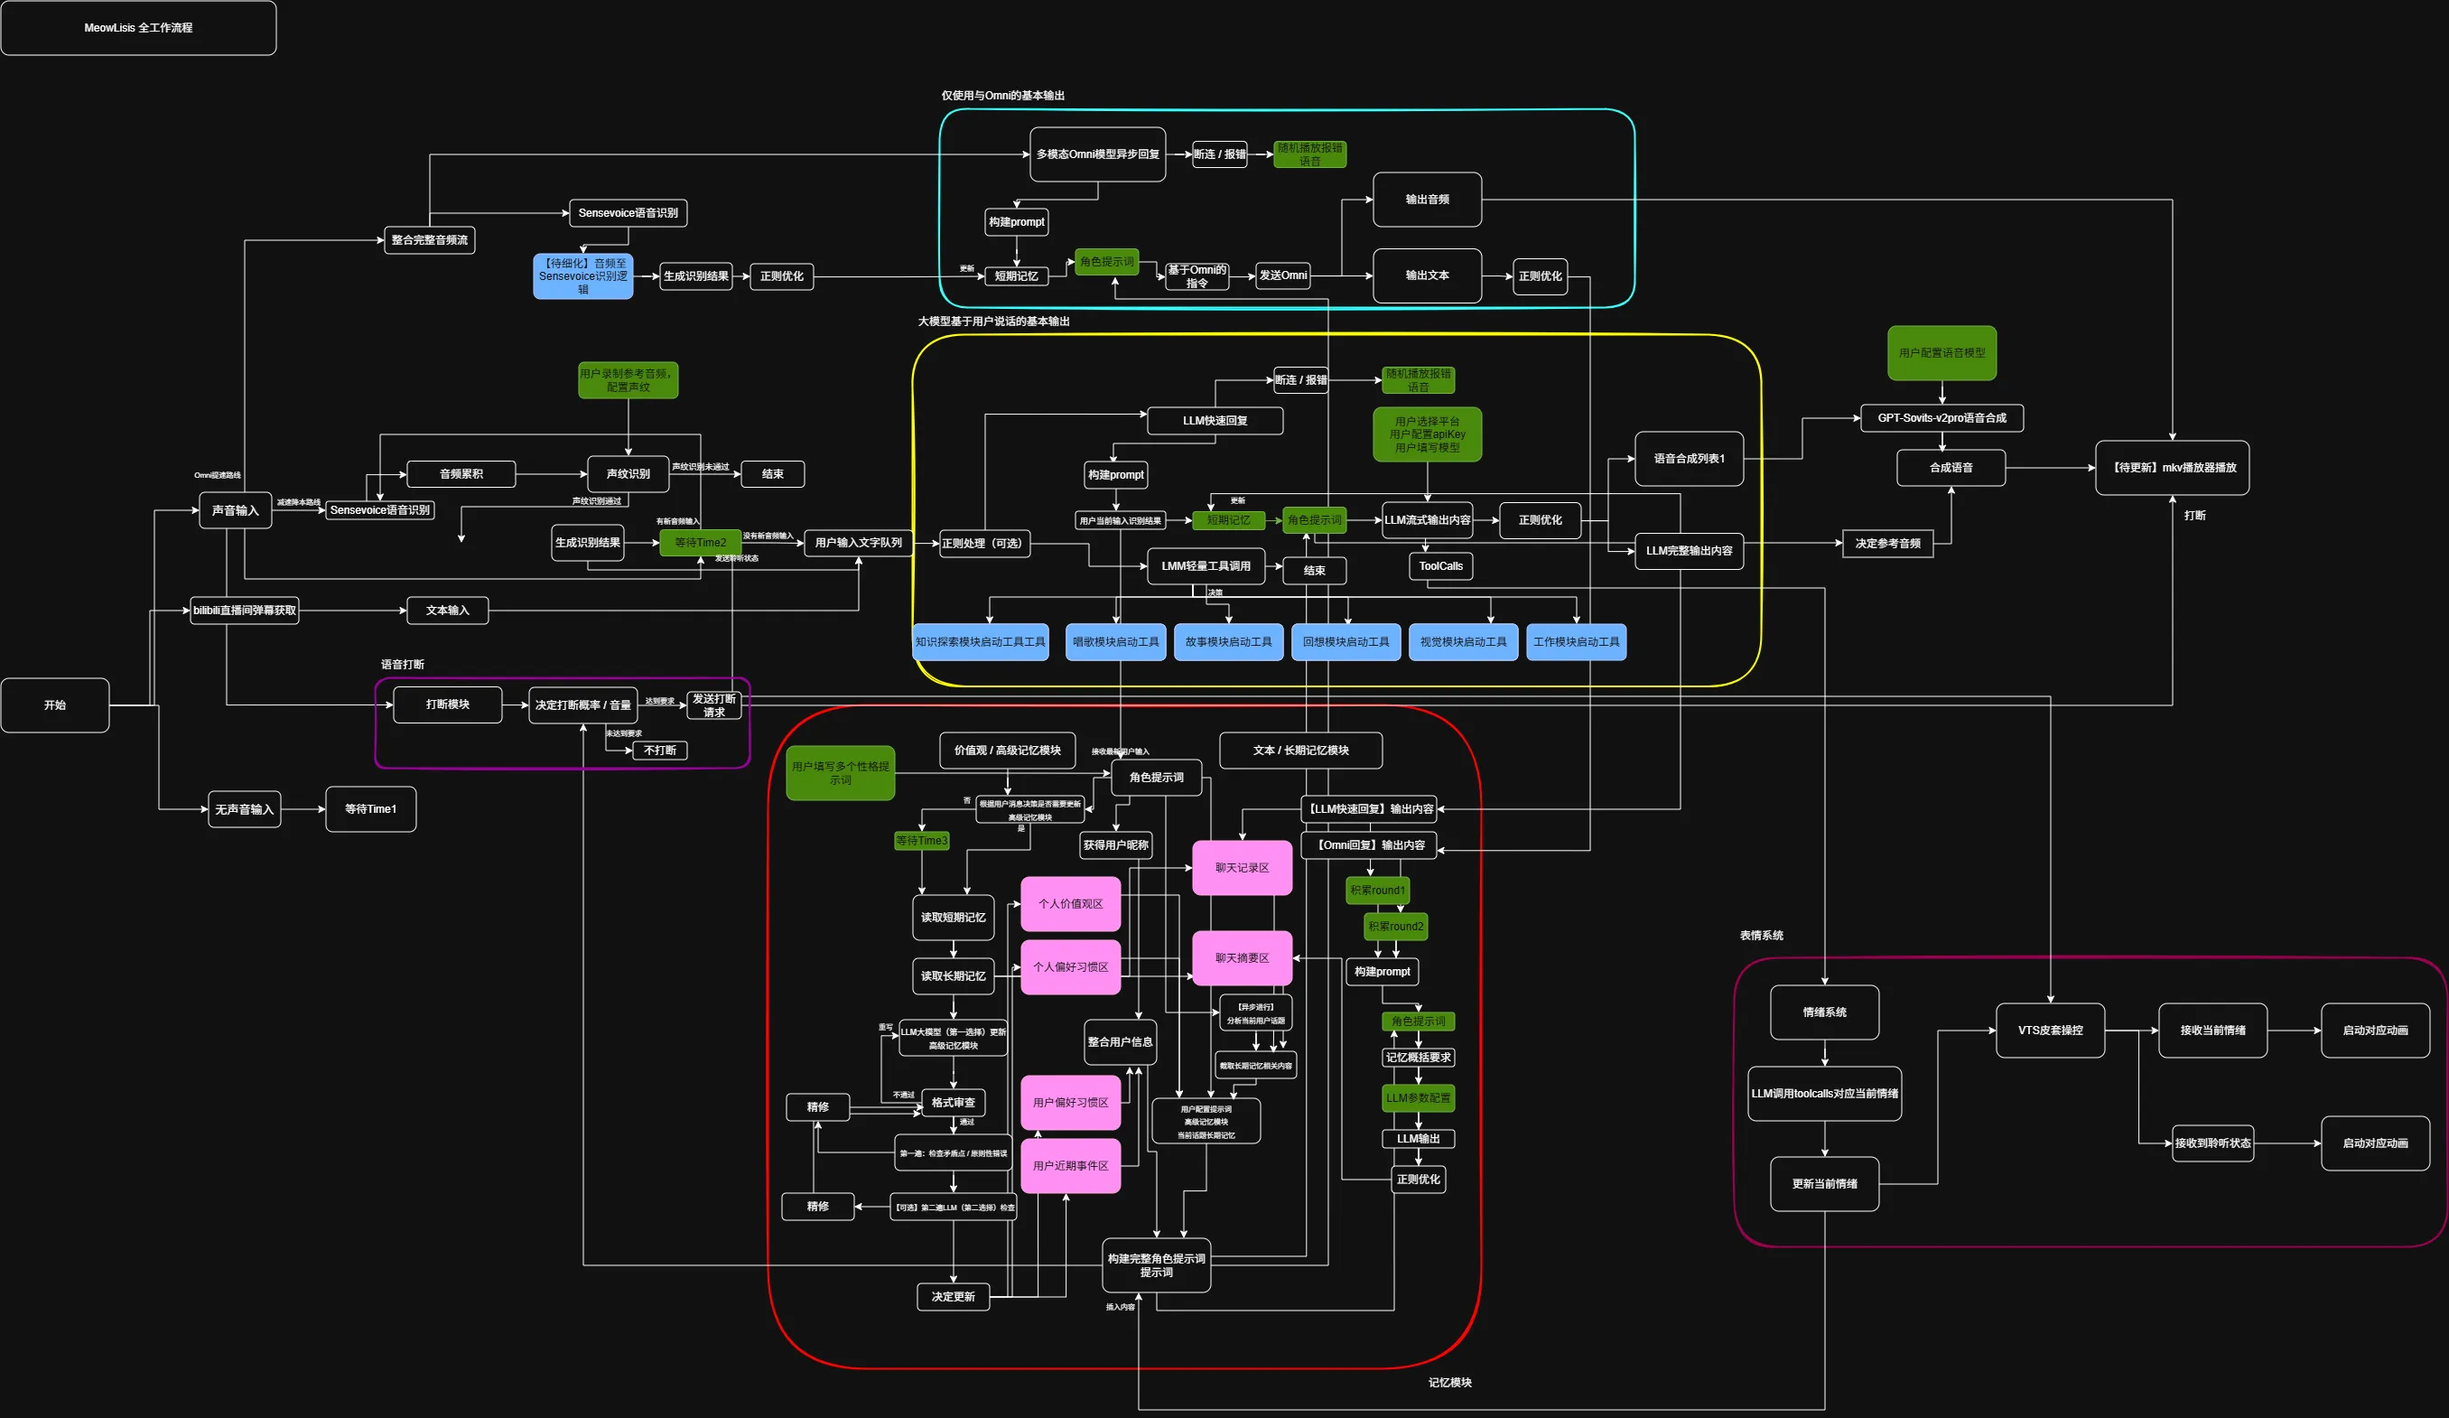
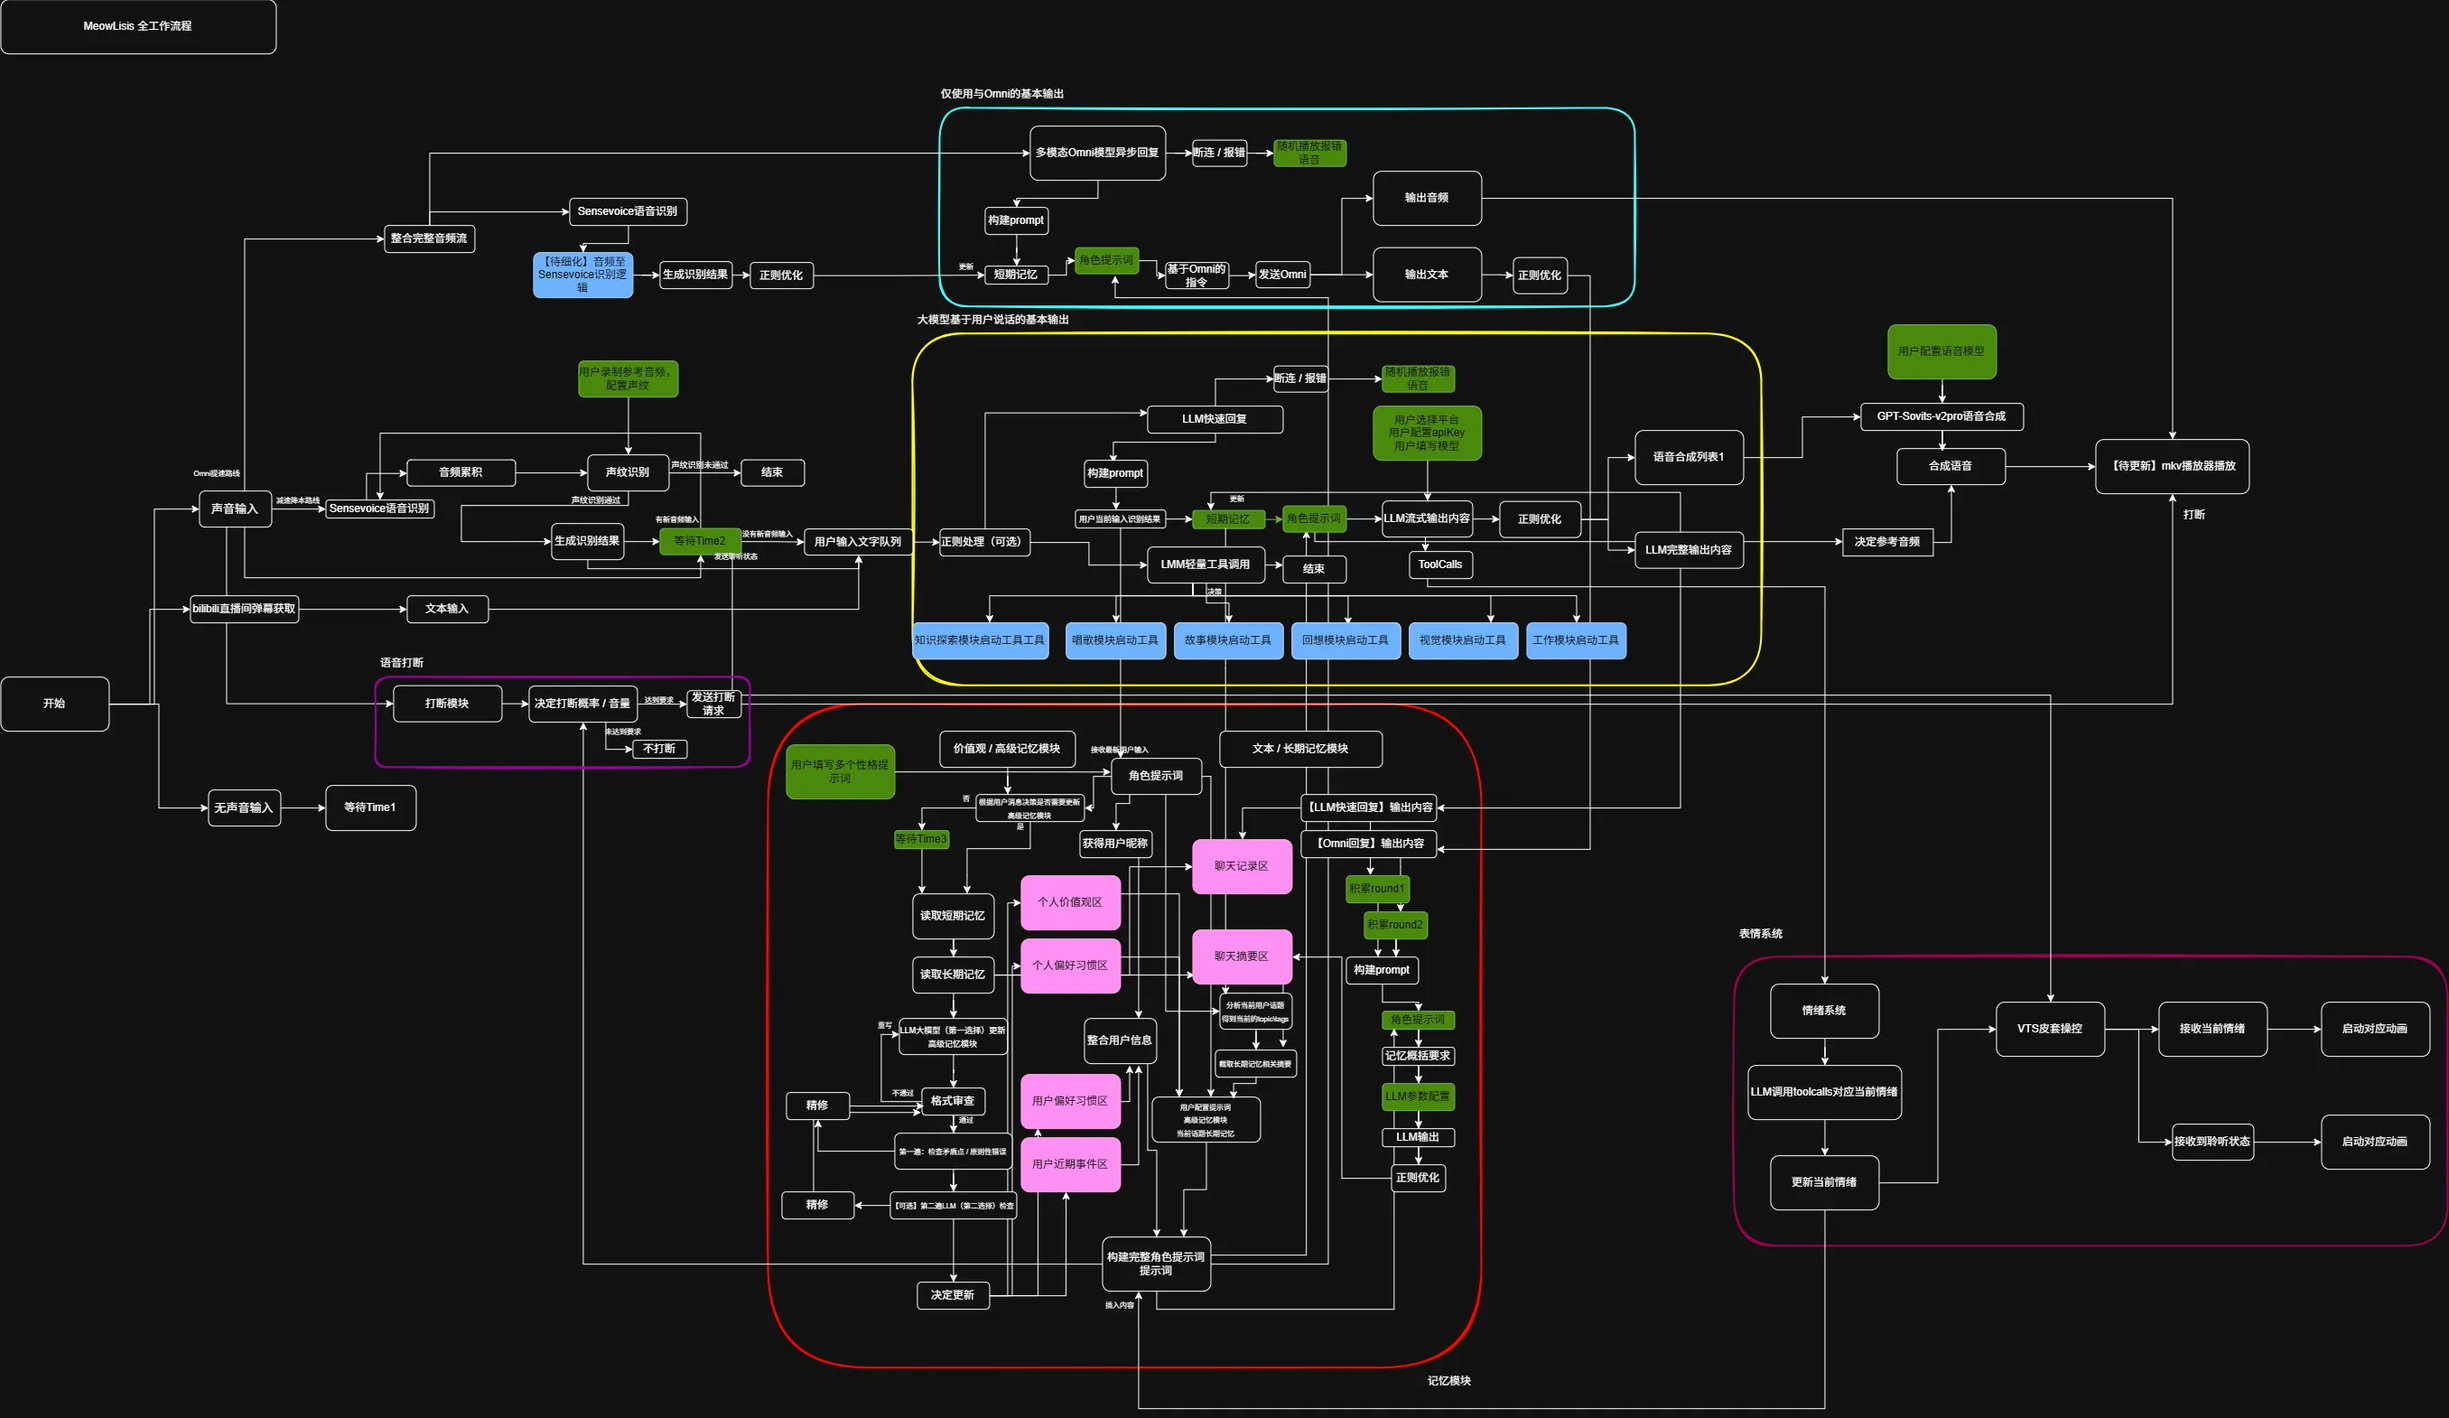
update-260819

diff --git a/gui/js/config.js b/gui/js/config.js
@@ -202,7 +202,8 @@ const Config = {
         let h = this._section('记忆摘要 (abstract_mem)');
         h += this._num('摘要触发条数', 'catbrain.abstract_mem.summary_rounds', 30, 1, 500, 1,
             '这里指单条消息数（user/assistant 各算一条），与短期记忆的"轮数"不同：短期记忆一轮 = 用户 + AI 两条') +
-            this._num('摘要检索条数上限', 'catbrain.abstract_mem.summary_top_limit', 20, 1, 200, 1);
+            this._num('摘要检索条数上限', 'catbrain.abstract_mem.summary_top_limit', 20, 1, 200, 1) +
+            this._num('话题更新间隔(秒)', 'catbrain.abstract_mem.topic_update_interval', 60, 1, 3600, 1);
         h += this._llmTypeSelect('摘要 LLM 类型', 'catbrain.abstract_mem.llm_type', ab);
         h += `<div class="modal-tabs">
             <button class="modal-tab active" data-tab="abstract_ds">DeepSeek</button>

diff --git a/func/catbrain/CatValues/update_values.py b/func/catbrain/CatValues/update_values.py
@@ -32,6 +32,8 @@ class MeowUpdateValues:
         self.values_dir = os.path.join("character", "info", "values")
         self.latest_path = os.path.join(self.values_dir, "latest.json")
         self.unchecked_path = os.path.join(self.values_dir, "unchecked.json")
+        # 审查是否因未调用工具而需直接中止
+        self._review_abort = False
 
     def _ensure_llm(self):
         """懒加载价值观独立 LLM 客户端"""
@@ -43,10 +45,10 @@ class MeowUpdateValues:
         return self.llm
 
     def _get_persona_prompt(self) -> str:
-        """延迟获取完整角色身份提示词（角色卡+价值观，方法内导入避免循环依赖）"""
+        """延迟获取角色卡提示词（方法名沿用 persona，实际仅取角色卡，不含价值观）"""
         try:
             from func.pipeline.system_prompt import SystemPromptBridge
-            return SystemPromptBridge().get_persona_prompt() or ""
+            return SystemPromptBridge().get_character_prompt() or ""
         except Exception:
             return ""
 
@@ -134,7 +136,7 @@ class MeowUpdateValues:
         result[self.update_tool.LOCK_FIELD] = lock_value
 
     def _review(self, result: Dict, llm, current: Dict) -> Tuple[bool, str]:
-        """审查环节：调用审查 LLM 判断新价值观是否合理，返回(是否通过, 意见)"""
+        """审查环节：自由工具调用判断新价值观是否合理，返回(是否通过, 意见)"""
         instruction = self._load_prompt(
             "review_prompt.txt",
             "你是审查员，请审查价值观更新结果，调用 review_values 工具输出结论。")
@@ -148,8 +150,7 @@ class MeowUpdateValues:
             {"role": "user", "content": f"角色当前价值观：\n{json.dumps(current, ensure_ascii=False, indent=2)}"},
             {"role": "user", "content": f"待审查的新价值观：\n{json.dumps(result, ensure_ascii=False, indent=2)}"}
         ]
-        resp = llm.chat(messages, tools=self.review_tool.build_tools(),
-                        tool_choice=self.review_tool.force_tool_choice())
+        resp = llm.chat(messages, tools=self.review_tool.build_tools())
         if not resp or not resp.choices:
             self.log.error("审查 LLM 无响应，默认不通过")
             return False, "审查 LLM 无响应"
@@ -161,7 +162,10 @@ class MeowUpdateValues:
                     return bool(args.get("pass")), str(args.get("feedback", ""))
         except Exception:
             self.log.exception("解析审查工具调用失败")
-        return False, "审查结果解析失败"
+            return False, "审查结果解析失败"
+        # 未调用审查工具：算不通过且直接中止
+        self._review_abort = True
+        return False, ""
 
     def _revise(self, messages: List[Dict], feedback: str) -> Optional[Dict]:
         """将审查意见反馈给分析 LLM 进行修改并重新输出"""
@@ -202,7 +206,11 @@ class MeowUpdateValues:
         # ===== 一次审查（最多3次） =====
         review_messages = list(messages)
         for attempt in range(3):
+            self._review_abort = False
             passed, feedback = self._review(result, self._ensure_llm(), current)
+            if self._review_abort:
+                self.log.error("审查未调用工具，直接结束")
+                return False
             if passed:
                 break
             self.log.warning(f"一次审查不通过(第{attempt + 1}次): {feedback}")
@@ -225,7 +233,11 @@ class MeowUpdateValues:
             review_llm = MeowValuesReviewLLM()
             if review_llm.client:
                 for attempt in range(3):
+                    self._review_abort = False
                     passed, feedback = self._review(result, review_llm, current)
+                    if self._review_abort:
+                        self.log.error("审查未调用工具，直接结束")
+                        return False
                     if passed:
                         break
                     self.log.warning(f"二次审查不通过(第{attempt + 1}次): {feedback}")

diff --git a/func/catbrain/AbstractMem/load_abmem.py b/func/catbrain/AbstractMem/load_abmem.py
@@ -4,12 +4,15 @@
 
 import os
 import json
+import time
 from typing import List, Dict
 
 from func.log.default_log import DefaultLog
 from func.config.app_config import AppConfig
 from func.catbrain.catbrain import MeowCatBrainConfig
+from func.catbrain.AbstractMem.summary_tool import MeowSummaryTool
 from func.toolbox.txt_reader.jieba_segment import MeowJiebaSegmentTool
+from func.pipeline.short_memory import ShortMemory
 
 
 class MeowLoadAbstractMemory:
@@ -19,7 +22,24 @@ class MeowLoadAbstractMemory:
         self.log = DefaultLog().getLogger()
         self.config = MeowCatBrainConfig()
         self.jieba_tool = MeowJiebaSegmentTool()
+        self.summary_tool = MeowSummaryTool()
+        self.short_memory = ShortMemory()
         self.meow_path = os.path.join("character", "abstract_memory", "meow.json")
+        # 当前话题缓存（内存单例，重启后从最新摘要回退）
+        self._topic_cache = ""
+        self._topic_cache_time = 0.0
+        self._llm = None
+
+    def _ensure_llm(self):
+        """懒加载摘要独立 LLM 客户端（话题决策复用）"""
+        if self._llm is None:
+            if self.config.abstract_llm_type == "aliyun":
+                from func.catbrain.AbstractMem.port.aliyun import MeowAbstractAliyunLLM
+                self._llm = MeowAbstractAliyunLLM()
+            else:
+                from func.catbrain.AbstractMem.port.deepseek import MeowAbstractDeepSeekLLM
+                self._llm = MeowAbstractDeepSeekLLM()
+        return self._llm
 
     def load(self) -> List[Dict]:
         """读取 meow.json 全部摘要记忆（缺失或损坏时返回空列表）"""
@@ -34,10 +54,51 @@ class MeowLoadAbstractMemory:
             return []
 
     def _current_topic(self, data: List[Dict]) -> str:
-        """取最新一条摘要的 topic 作为当前话题（保证单 topic 检索）"""
+        """当前话题：优先用缓存，过期后用短期记忆决策，失败回退到最新摘要"""
+        now = time.time()
+        if self._topic_cache and (now - self._topic_cache_time) < self.config.topic_update_interval:
+            return self._topic_cache
+        topic = self._decide_topic()
+        if topic:
+            self._topic_cache = topic
+            self._topic_cache_time = now
+            return topic
         if not data:
             return ""
         return str(data[-1].get("topic", "") or "")
+
+    def _decide_topic(self) -> str:
+        """用短期记忆强制工具调用决策当前话题（失败返回空）"""
+        llm = self._ensure_llm()
+        if llm is None or not llm.client:
+            return ""
+        records = self.short_memory.load()
+        if not records:
+            return ""
+        lines = []
+        for m in records[-20:]:
+            role = "用户" if m.get("role") == "user" else "AI"
+            lines.append(f"{role}：{m.get('content', '')}")
+        content = "\n".join(lines)
+        messages = [
+            {"role": "system", "content": "根据以下最近对话内容，判断当前对话的话题。"},
+            {"role": "user", "content": content},
+        ]
+        resp = llm.chat(messages, tools=self.summary_tool.build_topic_tool(),
+                        tool_choice=self.summary_tool.force_topic_tool_choice())
+        if not resp or not resp.choices:
+            return ""
+        try:
+            msg = resp.choices[0].message
+            for tc in (msg.tool_calls or []):
+                if tc.function.name == "decide_topic":
+                    args = json.loads(tc.function.arguments)
+                    topic = str(args.get("topic", "") or "").strip()
+                    if topic in self.summary_tool.TOPICS:
+                        return topic
+        except Exception:
+            self.log.exception("话题决策失败")
+        return ""
 
     def _tags_similarity(self, item: Dict, msg_words: set) -> float:
         """计算该条摘要前3个 tags 与当前消息的 jieba 关键词相似度"""

diff --git a/func/catbrain/UserMemory/update_userinfo.py b/func/catbrain/UserMemory/update_userinfo.py
@@ -132,8 +132,7 @@ class MeowUpdateUserInfo:
         ]
         result = self._call_tool(messages)
         if not result:
-            self.log.error(f"用户信息分析更新失败，写回缓存: {username}")
-            self.userrecord.restore_content(username, content, count)
+            self.log.info(f"用户信息未更新（未调用工具或调用失败）: {username}")
             return
         result["name"] = username
         # AI 决策不改动时跳过写入
@@ -144,13 +143,12 @@ class MeowUpdateUserInfo:
             self._save(username, result)
 
     def _call_tool(self, messages) -> Optional[Dict]:
-        """调用 LLM 强制工具并解析 save_user_info 结果"""
+        """调用 LLM 自由工具并解析 save_user_info 结果"""
         llm = self._ensure_llm()
         if llm is None or not llm.client:
             self.log.error("用户记忆 LLM 不可用，跳过更新")
             return None
-        resp = llm.chat(messages, tools=self.tool.build_tools(),
-                        tool_choice=self.tool.force_tool_choice())
+        resp = llm.chat(messages, tools=self.tool.build_tools())
         if not resp or not resp.choices:
             self.log.error("用户记忆 LLM 无响应")
             return None

diff --git a/func/catbrain/AbstractMem/summary_tool.py b/func/catbrain/AbstractMem/summary_tool.py
@@ -60,6 +60,27 @@ class MeowSummaryTool:
         """构建强制使用摘要工具的 tool_choice"""
         return "required"
 
+    def build_topic_tool(self) -> List[Dict]:
+        """构建话题决策工具定义"""
+        return [{
+            "type": "function",
+            "function": {
+                "name": "decide_topic",
+                "description": "根据最近对话内容判断当前话题，从枚举中选择一个",
+                "parameters": {
+                    "type": "object",
+                    "properties": {
+                        "topic": {"type": "string", "enum": self.TOPICS, "description": "当前话题"}
+                    },
+                    "required": ["topic"]
+                }
+            }
+        }]
+
+    def force_topic_tool_choice(self) -> Dict:
+        """构建强制使用话题决策工具的 tool_choice"""
+        return {"type": "function", "function": {"name": "decide_topic"}}
+
     def build_tags_attachment(self) -> str:
         """构建已有 tags 附件文本（随消息注入，供 AI 优先选择打标）"""
         tags = self.tag_store.load()

diff --git a/func/catbrain/AbstractMem/update_abmem.py b/func/catbrain/AbstractMem/update_abmem.py
@@ -56,10 +56,10 @@ class MeowUpdateAbstractMemory:
         return math.ceil(raw / 100.0) * 100
 
     def _get_character_prompt(self) -> str:
-        """延迟获取角色提示词（方法内导入，避免模块导入期循环依赖）"""
+        """延迟获取角色卡+价值观提示词（方法内导入，避免模块导入期循环依赖）"""
         try:
             from func.pipeline.system_prompt import SystemPromptBridge
-            return SystemPromptBridge().get_character_prompt() or ""
+            return SystemPromptBridge().get_persona_prompt() or ""
         except Exception:
             return ""
 

diff --git a/func/catbrain/config.py b/func/catbrain/config.py
@@ -31,6 +31,8 @@ class MeowCatBrainConfig:
         self.summary_rounds = am.get('summary_rounds', 30)
         # 摘要提示词检索时加载的摘要条数上限
         self.summary_top_limit = am.get('summary_top_limit', 20)
+        # 当前话题更新间隔（秒）
+        self.topic_update_interval = am.get('topic_update_interval', 60)
         # 摘要独立后端类型：deepseek / aliyun
         self.abstract_llm_type = am.get('llm_type', 'deepseek')
 
